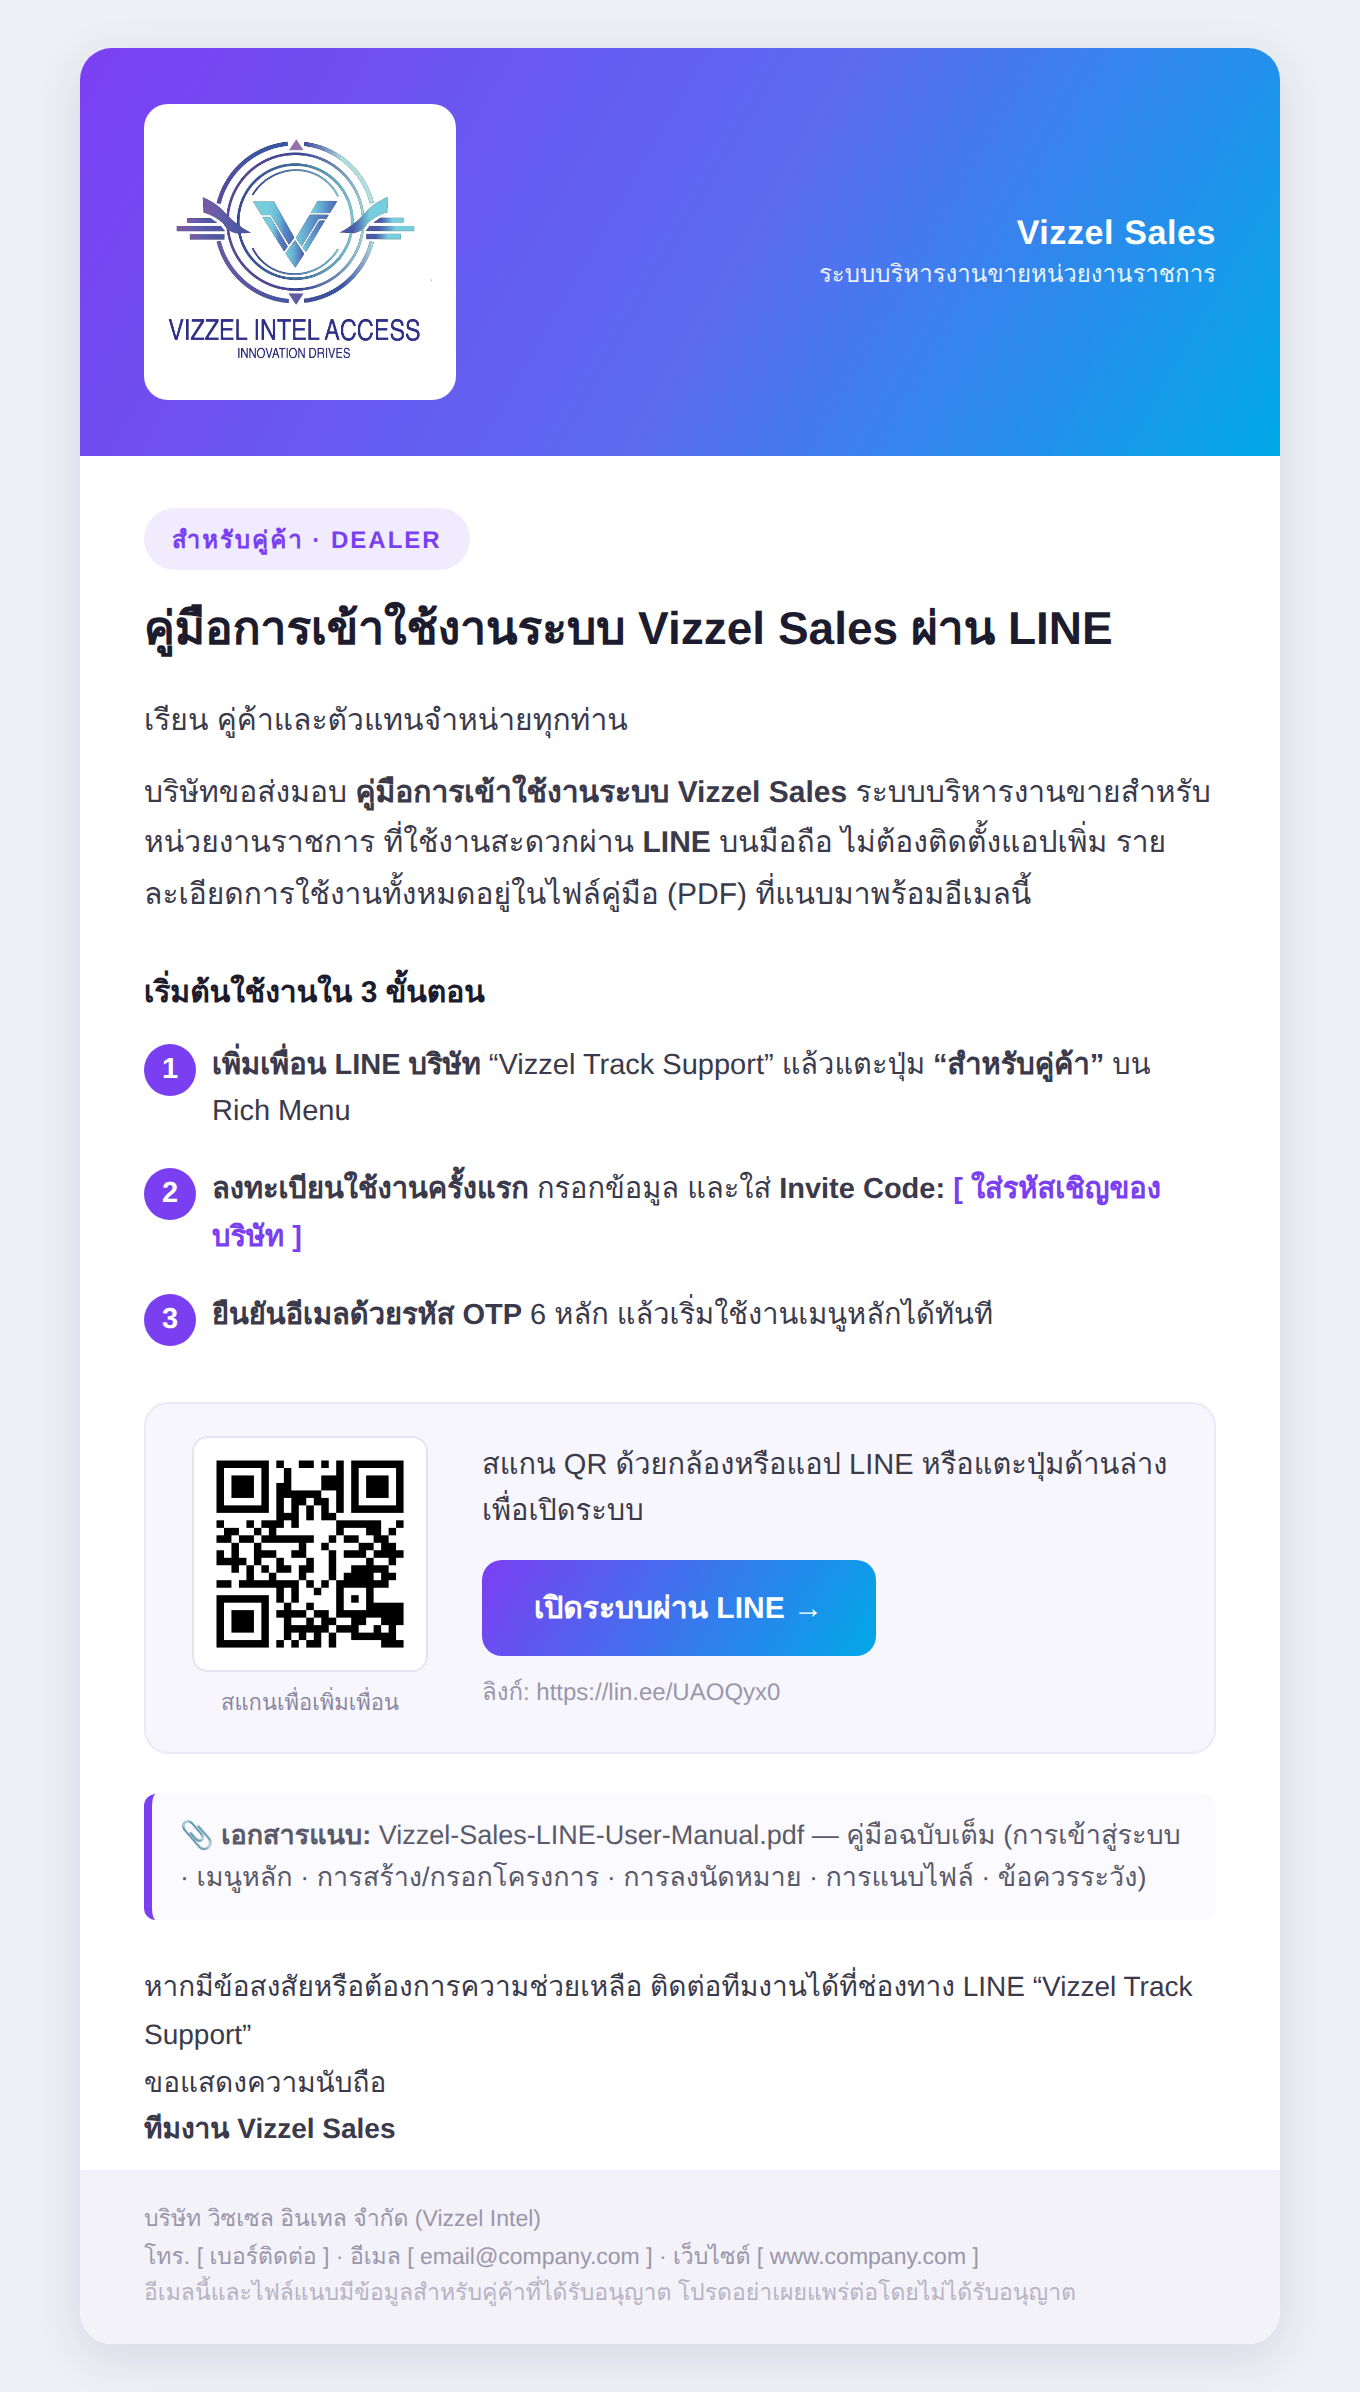
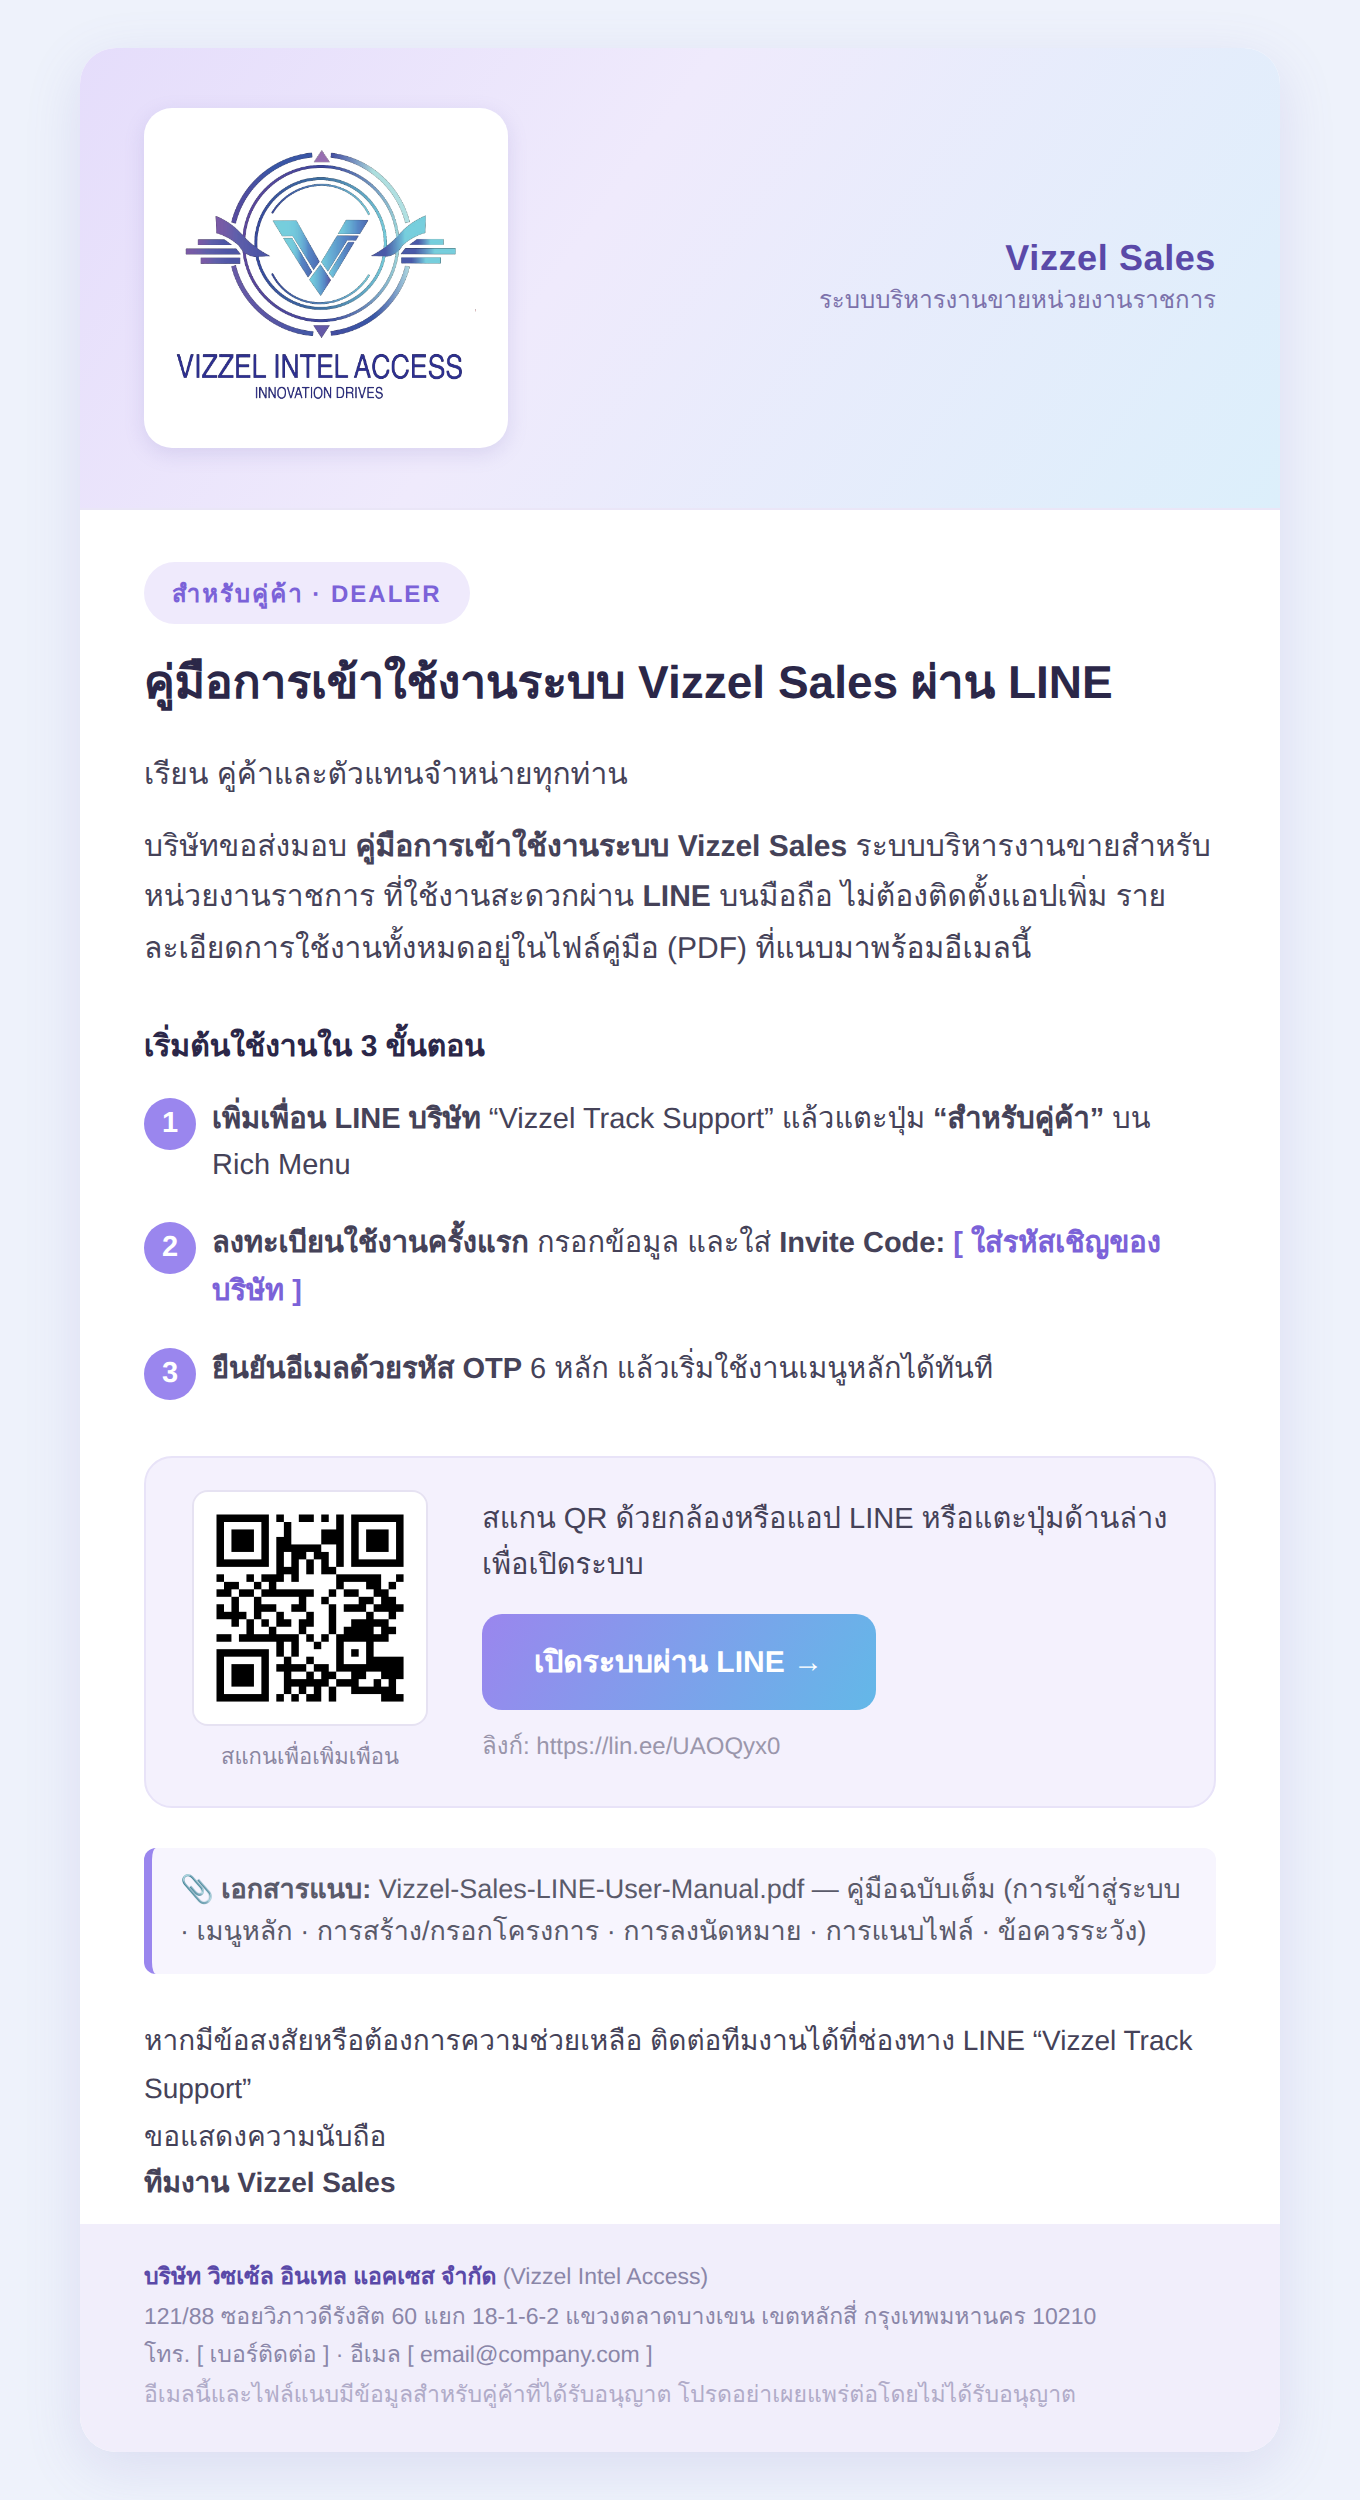
docs(email): pastel blue/white/purple theme + company name & address
- ปรับธีมอีเมลเป็นโทนฟ้า/ขาว/ม่วงพาสเทล, โลโก้เด่นขึ้น
- ใส่ชื่อบริษัท "บริษัท วิซเซ้ล อินเทล แอคเซส จำกัด" + ที่อยู่จริงใน footer (html + txt)

Claude-Session: https://claude.ai/code/session_0192e5gSofjVBrzraJPP2dqz

diff --git a/docs/user-manual-line/email/dealer-email.html b/docs/user-manual-line/email/dealer-email.html
@@ -7,37 +7,38 @@
 <title>คู่มือการเข้าใช้งาน Vizzel Sales ผ่าน LINE</title>
 </head>
 <!--
-  เทมเพลตอีเมลสำหรับส่งคู่มือให้คู่ค้า (Dealer)
+  เทมเพลตอีเมลสำหรับส่งคู่มือให้คู่ค้า (Dealer) — โทนฟ้า/ขาว/ม่วงพาสเทล
   วิธีใช้:
    1) แนบไฟล์ Vizzel-Sales-LINE-User-Manual.pdf ไปกับอีเมล
    2) คัดลอกเนื้อหาในไฟล์นี้ไปวางในโหมด HTML ของโปรแกรมส่งอีเมล
-      (Gmail: ใช้ส่วนขยาย/วางเป็น rich text | Outlook: Insert as HTML)
    3) แก้ Invite Code และข้อมูลติดต่อในจุดที่ทำเครื่องหมาย [...] ให้เป็นของบริษัท
   รูปโลโก้/QR โหลดจาก GitHub Pages อัตโนมัติ (ไม่ต้องแนบรูป)
 -->
-<body style="margin:0;padding:0;background:#eef0f6;">
-  <table role="presentation" width="100%" cellpadding="0" cellspacing="0" style="background:#eef0f6;">
+<body style="margin:0;padding:0;background:#eef2fb;">
+  <table role="presentation" width="100%" cellpadding="0" cellspacing="0" style="background:#eef2fb;">
     <tr>
       <td align="center" style="padding:24px 12px;">
 
         <!-- container -->
         <table role="presentation" width="600" cellpadding="0" cellspacing="0"
-          style="width:600px;max-width:600px;background:#ffffff;border-radius:16px;overflow:hidden;
-                 box-shadow:0 6px 24px rgba(40,30,90,.12);font-family:'Segoe UI',Tahoma,Arial,sans-serif;">
+          style="width:600px;max-width:600px;background:#ffffff;border-radius:18px;overflow:hidden;
+                 box-shadow:0 8px 28px rgba(120,110,190,.16);font-family:'Segoe UI',Tahoma,Arial,sans-serif;">
 
-          <!-- header -->
+          <!-- header (pastel) -->
           <tr>
-            <td style="background:linear-gradient(120deg,#7B3FF2 0%,#5B6BF0 55%,#00A8E8 100%);padding:28px 32px;">
+            <td style="background:linear-gradient(125deg,#e5ddfb 0%,#efeafc 42%,#dceffb 100%);
+                       padding:30px 32px;border-bottom:1px solid #eae6f7;">
               <table role="presentation" width="100%" cellpadding="0" cellspacing="0">
                 <tr>
                   <td style="vertical-align:middle;">
                     <img src="https://vizzelintel.github.io/vizzel-sales-frontend/assets/logo.png"
-                      width="132" alt="Vizzel Intel Access"
-                      style="display:block;background:#ffffff;border-radius:12px;padding:8px 12px;">
+                      width="150" alt="Vizzel Intel Access"
+                      style="display:block;background:#ffffff;border-radius:14px;padding:10px 16px;
+                             box-shadow:0 3px 10px rgba(120,110,190,.18);">
                   </td>
-                  <td align="right" style="vertical-align:middle;color:#ffffff;">
-                    <div style="font-size:17px;font-weight:700;letter-spacing:.3px;">Vizzel Sales</div>
-                    <div style="font-size:12px;opacity:.9;">ระบบบริหารงานขายหน่วยงานราชการ</div>
+                  <td align="right" style="vertical-align:middle;">
+                    <div style="font-size:18px;font-weight:700;letter-spacing:.3px;color:#5a49a8;">Vizzel Sales</div>
+                    <div style="font-size:12px;color:#7c72ab;">ระบบบริหารงานขายหน่วยงานราชการ</div>
                   </td>
                 </tr>
               </table>
@@ -47,9 +48,9 @@
           <!-- title strip -->
           <tr>
             <td style="padding:26px 32px 6px;">
-              <div style="display:inline-block;font-size:12px;font-weight:700;letter-spacing:1px;color:#7B3FF2;
-                          background:#f1ecfd;border-radius:20px;padding:6px 14px;">สำหรับคู่ค้า · DEALER</div>
-              <h1 style="margin:14px 0 0;font-size:23px;line-height:1.35;color:#1c1c2e;">
+              <div style="display:inline-block;font-size:12px;font-weight:700;letter-spacing:1px;color:#7b62d8;
+                          background:#efeafc;border-radius:20px;padding:6px 14px;">สำหรับคู่ค้า · DEALER</div>
+              <h1 style="margin:14px 0 0;font-size:23px;line-height:1.35;color:#2b2748;">
                 คู่มือการเข้าใช้งานระบบ Vizzel Sales ผ่าน LINE
               </h1>
             </td>
@@ -57,7 +58,7 @@
 
           <!-- intro -->
           <tr>
-            <td style="padding:12px 32px 4px;color:#3a3a4a;font-size:15px;line-height:1.7;">
+            <td style="padding:12px 32px 4px;color:#454258;font-size:15px;line-height:1.7;">
               <p style="margin:0 0 10px;">เรียน คู่ค้าและตัวแทนจำหน่ายทุกท่าน</p>
               <p style="margin:0 0 10px;">
                 บริษัทขอส่งมอบ <b>คู่มือการเข้าใช้งานระบบ Vizzel Sales</b> ระบบบริหารงานขายสำหรับหน่วยงานราชการ
@@ -70,11 +71,11 @@
           <!-- steps -->
           <tr>
             <td style="padding:10px 32px 4px;">
-              <div style="font-size:15px;font-weight:700;color:#1c1c2e;margin-bottom:6px;">เริ่มต้นใช้งานใน 3 ขั้นตอน</div>
-              <table role="presentation" width="100%" cellpadding="0" cellspacing="0" style="font-size:14.5px;color:#3a3a4a;">
+              <div style="font-size:15px;font-weight:700;color:#2b2748;margin-bottom:6px;">เริ่มต้นใช้งานใน 3 ขั้นตอน</div>
+              <table role="presentation" width="100%" cellpadding="0" cellspacing="0" style="font-size:14.5px;color:#454258;">
                 <tr>
                   <td width="34" valign="top" style="padding:8px 0;">
-                    <div style="width:26px;height:26px;border-radius:50%;background:#7B3FF2;color:#fff;
+                    <div style="width:26px;height:26px;border-radius:50%;background:#9a86ee;color:#fff;
                                 font-weight:700;text-align:center;line-height:26px;">1</div>
                   </td>
                   <td valign="top" style="padding:8px 0;line-height:1.6;">
@@ -83,17 +84,17 @@
                 </tr>
                 <tr>
                   <td valign="top" style="padding:8px 0;">
-                    <div style="width:26px;height:26px;border-radius:50%;background:#7B3FF2;color:#fff;
+                    <div style="width:26px;height:26px;border-radius:50%;background:#9a86ee;color:#fff;
                                 font-weight:700;text-align:center;line-height:26px;">2</div>
                   </td>
                   <td valign="top" style="padding:8px 0;line-height:1.6;">
                     <b>ลงทะเบียนใช้งานครั้งแรก</b> กรอกข้อมูล และใส่ <b>Invite Code:
-                    <span style="color:#7B3FF2;">[ ใส่รหัสเชิญของบริษัท ]</span></b>
+                    <span style="color:#7b62d8;">[ ใส่รหัสเชิญของบริษัท ]</span></b>
                   </td>
                 </tr>
                 <tr>
                   <td valign="top" style="padding:8px 0;">
-                    <div style="width:26px;height:26px;border-radius:50%;background:#7B3FF2;color:#fff;
+                    <div style="width:26px;height:26px;border-radius:50%;background:#9a86ee;color:#fff;
                                 font-weight:700;text-align:center;line-height:26px;">3</div>
                   </td>
                   <td valign="top" style="padding:8px 0;line-height:1.6;">
@@ -108,7 +109,7 @@
           <tr>
             <td style="padding:16px 32px 6px;">
               <table role="presentation" width="100%" cellpadding="0" cellspacing="0"
-                style="background:#f7f6fc;border:1px solid #ece8f8;border-radius:12px;">
+                style="background:#f4f1fd;border:1px solid #e8e3f8;border-radius:14px;">
                 <tr>
                   <td width="132" align="center" style="padding:16px;">
                     <img src="https://vizzelintel.github.io/vizzel-sales-frontend/docs/user-manual-line/images/00a-line-qr.png"
@@ -117,14 +118,14 @@
                     <div style="font-size:11px;color:#8a86a0;margin-top:6px;">สแกนเพื่อเพิ่มเพื่อน</div>
                   </td>
                   <td valign="middle" style="padding:16px 16px 16px 4px;">
-                    <div style="font-size:14.5px;color:#3a3a4a;line-height:1.6;margin-bottom:12px;">
+                    <div style="font-size:14.5px;color:#454258;line-height:1.6;margin-bottom:12px;">
                       สแกน QR ด้วยกล้องหรือแอป LINE หรือแตะปุ่มด้านล่างเพื่อเปิดระบบ
                     </div>
-                    <!-- bulletproof button -->
+                    <!-- bulletproof button (pastel) -->
                     <table role="presentation" cellpadding="0" cellspacing="0">
                       <tr>
                         <td align="center" style="border-radius:10px;
-                          background:linear-gradient(120deg,#7B3FF2,#00A8E8);">
+                          background:linear-gradient(120deg,#9a86ee,#63b8e8);">
                           <a href="https://lin.ee/UAOQyx0" target="_blank"
                             style="display:inline-block;padding:12px 26px;font-size:15px;font-weight:700;
                                    color:#ffffff;text-decoration:none;font-family:'Segoe UI',Tahoma,Arial,sans-serif;">
@@ -145,7 +146,7 @@
           <!-- attachment note -->
           <tr>
             <td style="padding:14px 32px 4px;">
-              <div style="font-size:13.5px;color:#5a5a6a;background:#fbfaff;border-left:4px solid #7B3FF2;
+              <div style="font-size:13.5px;color:#5a5a6a;background:#f7f5fe;border-left:4px solid #9a86ee;
                           border-radius:6px;padding:10px 14px;line-height:1.6;">
                 📎 <b>เอกสารแนบ:</b> Vizzel-Sales-LINE-User-Manual.pdf — คู่มือฉบับเต็ม
                 (การเข้าสู่ระบบ · เมนูหลัก · การสร้าง/กรอกโครงการ · การลงนัดหมาย · การแนบไฟล์ · ข้อควรระวัง)
@@ -155,7 +156,7 @@
 
           <!-- signature -->
           <tr>
-            <td style="padding:18px 32px 8px;color:#3a3a4a;font-size:14px;line-height:1.7;">
+            <td style="padding:18px 32px 8px;color:#454258;font-size:14px;line-height:1.7;">
               หากมีข้อสงสัยหรือต้องการความช่วยเหลือ ติดต่อทีมงานได้ที่ช่องทาง LINE “Vizzel Track Support”<br>
               ขอแสดงความนับถือ<br>
               <b>ทีมงาน Vizzel Sales</b>
@@ -164,10 +165,11 @@
 
           <!-- footer -->
           <tr>
-            <td style="background:#f3f2f8;padding:16px 32px;color:#9a96ab;font-size:11.5px;line-height:1.6;">
-              บริษัท วิซเซล อินเทล จำกัด (Vizzel Intel)<br>
-              โทร. [ เบอร์ติดต่อ ] · อีเมล [ email@company.com ] · เว็บไซต์ [ www.company.com ]<br>
-              <span style="color:#b7b3c6;">อีเมลนี้และไฟล์แนบมีข้อมูลสำหรับคู่ค้าที่ได้รับอนุญาต โปรดอย่าเผยแพร่ต่อโดยไม่ได้รับอนุญาต</span>
+            <td style="background:#f1eefb;padding:18px 32px;color:#8a86a8;font-size:11.5px;line-height:1.7;">
+              <b style="color:#5a49a8;">บริษัท วิซเซ้ล อินเทล แอคเซส จำกัด</b> (Vizzel Intel Access)<br>
+              121/88 ซอยวิภาวดีรังสิต 60 แยก 18-1-6-2 แขวงตลาดบางเขน เขตหลักสี่ กรุงเทพมหานคร 10210<br>
+              โทร. [ เบอร์ติดต่อ ] · อีเมล [ email@company.com ]<br>
+              <span style="color:#b0abc8;">อีเมลนี้และไฟล์แนบมีข้อมูลสำหรับคู่ค้าที่ได้รับอนุญาต โปรดอย่าเผยแพร่ต่อโดยไม่ได้รับอนุญาต</span>
             </td>
           </tr>
 
